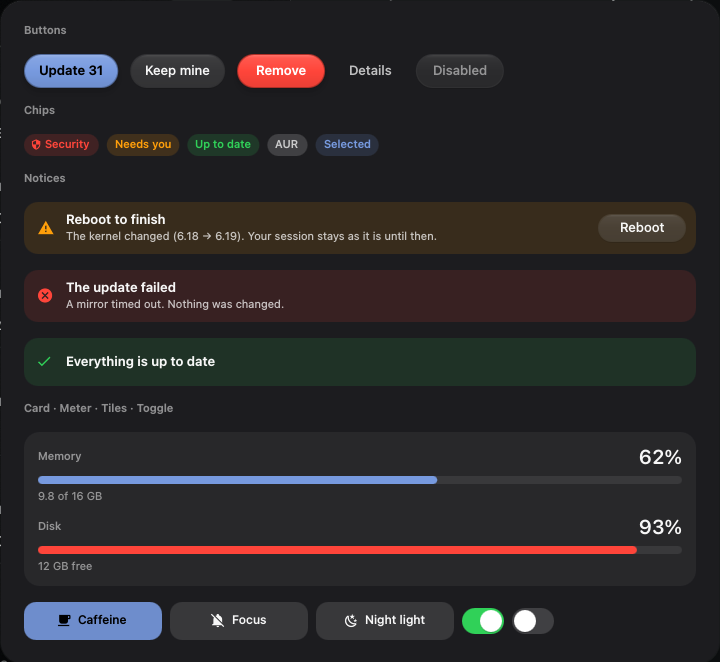
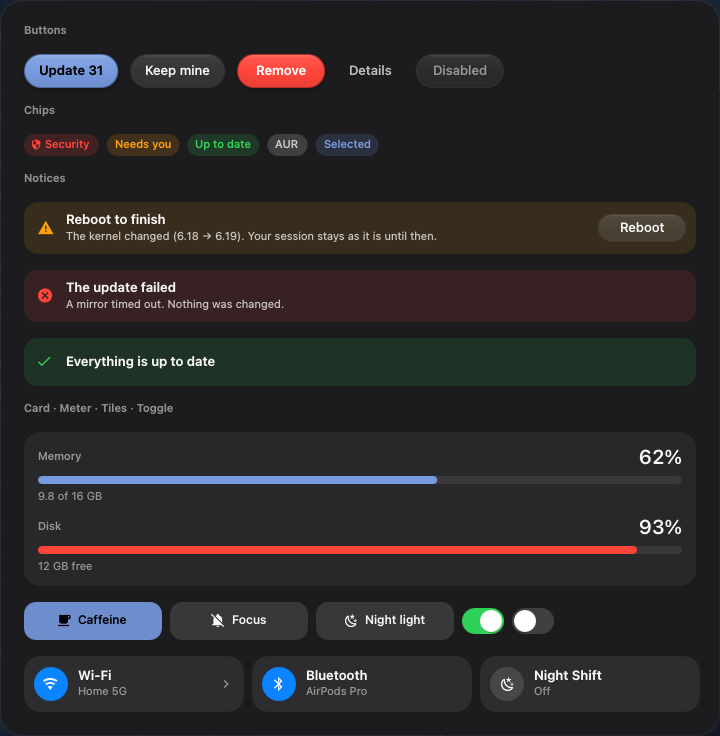
feat(ui): ControlTile primitive (the Control Center tile out of DisplayView), in the gallery and DESIGN.md

diff --git a/shell/modules/notifications/DisplayView.qml b/shell/modules/notifications/DisplayView.qml
@@ -22,6 +22,7 @@ import Quickshell.Services.UPower
 import Quickshell.Services.Pipewire
 import qs.config
 import qs.components
+import qs.components.ui
 import qs.services
 
 Item {
@@ -117,6 +118,7 @@ Item {
                     on: Networking.wifiEnabled
                     tone: Theme.blue
                     expandable: true
+                    moreText: "Show networks"
                     expanded: view.wifiOpen
                     onToggled: Networking.wifiEnabled = !Networking.wifiEnabled
                     onOpened: view.wifiOpen = !view.wifiOpen
@@ -405,76 +407,10 @@ Item {
         }
     }
 
-    // A Control Center tile: glyph in a circle, title, one line of state.
-    component Tile: Rectangle {
-        id: tile
-        property string glyph
-        property string title
-        property string subtitle
-        property bool on: false
-        property color tone: Theme.blue
-        // Expandable tiles (Wi‑Fi): the disc toggles, the rest opens more.
-        property bool expandable: false
-        property bool expanded: false
-        signal toggled()
-        signal opened()
-
+    // A Control Center tile (components/ui/ControlTile), two to a row here.
+    component Tile: ControlTile {
+        id: t
         width: (view.width - 8) / 2
-        height: 56
-        radius: 16
-        color: area.containsMouse ? Qt.rgba(1, 1, 1, 0.11) : Qt.rgba(1, 1, 1, 0.075)
-        border.width: 1
-        border.color: Qt.rgba(1, 1, 1, 0.06)
-        scale: area.pressed ? 0.97 : 1
-        Behavior on color { ColorAnimation { duration: 80 } }
-        Behavior on scale { NumberAnimation { duration: Theme.pressMs; easing.type: Easing.BezierSpline; easing.bezierCurve: Theme.easeOut } }
-
-        Rectangle {
-            id: disc
-            x: 10
-            anchors.verticalCenter: parent.verticalCenter
-            width: 34; height: 34; radius: 17
-            color: tile.on ? tile.tone : Qt.rgba(1, 1, 1, 0.12)
-            Behavior on color { ColorAnimation { duration: Theme.colorMs } }
-            Text {
-                anchors.centerIn: parent
-                text: tile.glyph
-                font.family: Theme.fontGlyph
-                font.pixelSize: 16
-                color: tile.on && tile.tone === Theme.yellow ? "#1c1c1e" : Theme.textPrimary
-            }
-        }
-        Column {
-            anchors { left: disc.right; leftMargin: 10; right: chevron.left; rightMargin: 6; verticalCenter: parent.verticalCenter }
-            spacing: 1
-            Label { width: parent.width; elide: Text.ElideRight; text: tile.title; size: 13; weight: Theme.wSemibold }
-            Label { width: parent.width; elide: Text.ElideRight; text: tile.subtitle; size: 11; color: Theme.textTertiary }
-        }
-        Text {
-            id: chevron
-            anchors { right: parent.right; rightMargin: tile.expandable ? 10 : 0; verticalCenter: parent.verticalCenter }
-            width: tile.expandable ? implicitWidth : 0
-            visible: tile.expandable
-            text: "\u{f0142}"                                     // chevron-right
-            font.family: Theme.fontGlyph
-            font.pixelSize: 16
-            color: Theme.textTertiary
-            rotation: tile.expanded ? 90 : 0
-            Behavior on rotation { enabled: !Theme.reduceMotion; NumberAnimation { duration: Theme.enterMs; easing.type: Easing.BezierSpline; easing.bezierCurve: Theme.easeOut } }
-        }
-        MouseArea {
-            id: area
-            anchors.fill: parent
-            hoverEnabled: true
-            cursorShape: Qt.PointingHandCursor
-            // Expandable tiles say which half does what.
-            property bool onDisc: mouseX < disc.x + disc.width + 4
-            onContainsMouseChanged: if (tile.expandable) view.center.tip(tile, containsMouse, onDisc ? "Turn " + tile.title + (tile.on ? " off" : " on") : "Show networks")
-            onOnDiscChanged: if (tile.expandable && containsMouse) view.center.tip(tile, true, onDisc ? "Turn " + tile.title + (tile.on ? " off" : " on") : "Show networks")
-            onClicked: mouse => {
-                if (tile.expandable && mouse.x > disc.x + disc.width + 4) tile.opened();
-                else tile.toggled();
-            }
-        }
+        onTip: (shown, text) => view.center.tip(t, shown, text)
     }
 }

diff --git a/shell/components/ui/ControlTile.qml b/shell/components/ui/ControlTile.qml
@@ -1,0 +1,82 @@
+// A Control Center tile: the mark in a disc (filled in its tone while on),
+// a title and one line of state. Expandable ones (Wi-Fi): the disc toggles,
+// the rest opens more (and says which half does what through tip()).
+//
+//   ControlTile { glyph: "\u{f05a9}"; title: "Wi-Fi"; subtitle: "Home"; on: true; expandable: true; moreText: "Show networks" }
+import QtQuick
+import qs.config
+import qs.components
+
+Rectangle {
+    id: tile
+    property string glyph
+    property string title
+    property string subtitle
+    property bool on: false
+    property color tone: Theme.blue
+    // Expandable tiles (Wi‑Fi): the disc toggles, the rest opens more.
+    property bool expandable: false
+    property bool expanded: false
+    property string moreText: "Show more"
+    signal toggled()
+    signal opened()
+    signal tip(bool shown, string text)   // expandable: which half does what
+
+    implicitWidth: 200
+    implicitHeight: 56
+    radius: Theme.r3
+    color: area.containsMouse ? Qt.rgba(1, 1, 1, 0.11) : Qt.rgba(1, 1, 1, 0.075)
+    border.width: 1
+    border.color: Qt.rgba(1, 1, 1, 0.06)
+    scale: area.pressed ? 0.97 : 1
+    Behavior on color { ColorAnimation { duration: 80 } }
+    Behavior on scale { NumberAnimation { duration: Theme.pressMs; easing.type: Easing.BezierSpline; easing.bezierCurve: Theme.easeOut } }
+
+    Rectangle {
+        id: disc
+        x: 10
+        anchors.verticalCenter: parent.verticalCenter
+        width: 34; height: 34; radius: 17
+        color: tile.on ? tile.tone : Qt.rgba(1, 1, 1, 0.12)
+        Behavior on color { ColorAnimation { duration: Theme.colorMs } }
+        Text {
+            anchors.centerIn: parent
+            text: tile.glyph
+            font.family: Theme.fontGlyph
+            font.pixelSize: 16
+            color: tile.on && tile.tone === Theme.yellow ? "#1c1c1e" : Theme.textPrimary
+        }
+    }
+    Column {
+        anchors { left: disc.right; leftMargin: 10; right: chevron.left; rightMargin: 6; verticalCenter: parent.verticalCenter }
+        spacing: 1
+        Label { width: parent.width; elide: Text.ElideRight; text: tile.title; size: 13; weight: Theme.wSemibold }
+        Label { width: parent.width; elide: Text.ElideRight; text: tile.subtitle; size: 11; color: Theme.textTertiary }
+    }
+    Text {
+        id: chevron
+        anchors { right: parent.right; rightMargin: tile.expandable ? 10 : 0; verticalCenter: parent.verticalCenter }
+        width: tile.expandable ? implicitWidth : 0
+        visible: tile.expandable
+        text: "\u{f0142}"                                     // chevron-right
+        font.family: Theme.fontGlyph
+        font.pixelSize: 16
+        color: Theme.textTertiary
+        rotation: tile.expanded ? 90 : 0
+        Behavior on rotation { enabled: !Theme.reduceMotion; NumberAnimation { duration: Theme.enterMs; easing.type: Easing.BezierSpline; easing.bezierCurve: Theme.easeOut } }
+    }
+    MouseArea {
+        id: area
+        anchors.fill: parent
+        hoverEnabled: true
+        cursorShape: Qt.PointingHandCursor
+        // Expandable tiles say which half does what.
+        property bool onDisc: mouseX < disc.x + disc.width + 4
+        onContainsMouseChanged: if (tile.expandable) tile.tip(containsMouse, onDisc ? "Turn " + tile.title + (tile.on ? " off" : " on") : tile.moreText)
+        onOnDiscChanged: if (tile.expandable && containsMouse) tile.tip(true, onDisc ? "Turn " + tile.title + (tile.on ? " off" : " on") : tile.moreText)
+        onClicked: mouse => {
+            if (tile.expandable && mouse.x > disc.x + disc.width + 4) tile.opened();
+            else tile.toggled();
+        }
+    }
+}

diff --git a/shell/modules/Gallery.qml b/shell/modules/Gallery.qml
@@ -67,5 +67,11 @@ PanelWindow {
             Toggle { anchors.verticalCenter: parent.verticalCenter; on: true; label: "Example" }
             Toggle { anchors.verticalCenter: parent.verticalCenter; on: false; label: "Example" }
         }
+        Row {
+            spacing: Theme.s2
+            ControlTile { width: 220; glyph: "\u{f05a9}"; title: "Wi‑Fi"; subtitle: "Home 5G"; on: true; tone: Theme.blue; expandable: true }
+            ControlTile { width: 220; glyph: "\u{f00af}"; title: "Bluetooth"; subtitle: "AirPods Pro"; on: true; tone: Theme.blue }
+            ControlTile { width: 220; glyph: "\u{f0594}"; title: "Night Shift"; subtitle: "Off"; on: false; tone: Theme.orange }
+        }
     }
 }

diff --git a/docs/DESIGN.md b/docs/DESIGN.md
@@ -154,6 +154,7 @@ gallery on` (no keyboard taken), `off` to close.
 | `Card` | Grouping related rows inside a panel; children stack 10 px apart, 14 px in | Cards inside cards |
 | `Meter` | A level with its number (memory, disk, GPU): accent, orange > 75 %, red > 90 % | A meter for things that aren't levels |
 | `Tile` | Quick on/off for a mode (Caffeine, Focus), Control Center style: accent while on | A settings row (use `Toggle`) |
+| `ControlTile` | The Control Center grid (Wi‑Fi, Bluetooth, Night Shift): disc in its tone while on, a status line; expandable ones open more from the right half | Small rows of modes (use `Tile`) |
 | `Toggle` (`components/`) | A setting's on/off in a row: green while on, like iOS | A mode tile |
 | `Segmented`, `Slider`, `Tip`, `KeyCap`, `FocusRing` (`components/`) | Tabs, levels you drag, hover help, key hints, keyboard focus | Re-drawing any of them in a panel |
 
